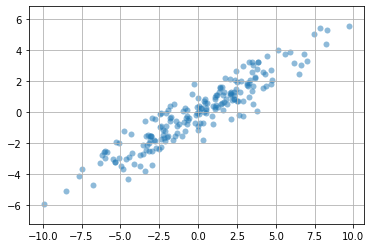
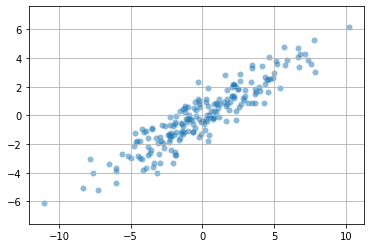
deploy: 676d2d60536966c816368273494c407d6347e09b

diff --git a/searchindex.js b/searchindex.js
@@ -1,1 +1,1 @@
-Search.setIndex({docnames:["index","notebooks/01_linear_systems","notebooks/02_LU_decomposition","notebooks/03_polynomial_interpolation","notebooks/04_spline_interpolation","notebooks/05_finite_difference_method","notebooks/06_least_squares_regression","notebooks/07_pca","notebooks/08_deblurring_images","notebooks/09_computed_tomography","notebooks/10_computing_eigenvalues","notebooks/11_pagerank","notebooks/12_fft","notebooks/13_convolution","notebooks/IntroductionToPythonPart1","notebooks/IntroductionToPythonPart2","notebooks/Untitled"],envversion:{"sphinx.domains.c":2,"sphinx.domains.changeset":1,"sphinx.domains.citation":1,"sphinx.domains.cpp":3,"sphinx.domains.index":1,"sphinx.domains.javascript":2,"sphinx.domains.math":2,"sphinx.domains.python":2,"sphinx.domains.rst":2,"sphinx.domains.std":1,"sphinx.ext.intersphinx":1,sphinx:56},filenames:["index.md","notebooks/01_linear_systems.ipynb","notebooks/02_LU_decomposition.ipynb","notebooks/03_polynomial_interpolation.ipynb","notebooks/04_spline_interpolation.ipynb","notebooks/05_finite_difference_method.ipynb","notebooks/06_least_squares_regression.ipynb","notebooks/07_pca.ipynb","notebooks/08_deblurring_images.ipynb","notebooks/09_computed_tomography.ipynb","notebooks/10_computing_eigenvalues.ipynb","notebooks/11_pagerank.ipynb","notebooks/12_fft.ipynb","notebooks/13_convolution.ipynb","notebooks/IntroductionToPythonPart1.ipynb","notebooks/IntroductionToPythonPart2.ipynb","notebooks/Untitled.ipynb"],objects:{},objnames:{},objtypes:{},terms:{"00000000e":10,"005":[3,4],"01100398":11,"011004149747898956":11,"01820101288462227":11,"01820106":11,"01845697":6,"01856531":11,"0185654143170336":11,"01964212":11,"019642336867707968":11,"021460824700357012":11,"02146109":11,"02473401":11,"02473449475187664":11,"03172254":11,"03172324068371808":11,"03390933449658806":11,"03390935":11,"034842719597060645":11,"03484272":11,"0375":11,"037500000000000006":11,"03812487596135639":11,"0381253":11,"04268155":6,"04545124581214953":11,"04545158":11,"04629856":11,"04629857137044171":11,"04964199":11,"049642137978157676":11,"05699421":11,"05699487639823209":11,"06334349":11,"06334418862061811":11,"07106781e":10,"08949645356198964":11,"08949685":11,"09112605":11,"09112633980008658":11,"09174360136103106":11,"09174401":11,"09223897889625098":11,"09223954":11,"100":[3,5,10,11,12],"1000":6,"1056":7,"10mm":[1,2,5],"1100":12,"115575244":3,"11764706e":10,"120":9,"12145520219282296":11,"12145625":11,"13793103e":10,"14213562e":10,"150":10,"1525":15,"16666667":1,"1797":7,"180":15,"1a19a4a092db":14,"200":[3,4,7,8,9],"220446049250313e":1,"23313981e":10,"239":14,"240":14,"241":14,"242":14,"243":14,"24650102e":10,"24712881730381647":11,"24720132":11,"24782":8,"256":8,"2q_k":5,"2x_1":14,"32083333":11,"3236":15,"331042560716":8,"33333333":[1,2,11],"33333333e":10,"36886114e":10,"382":10,"38617379e":10,"39797215e":10,"3x_2":14,"40000000e":10,"41176471e":10,"41379310e":10,"41421356":10,"41421356e":10,"432x288":8,"43829925e":10,"44100":12,"45293347e":10,"4625":11,"46809736":11,"46824236539236713":11,"49999998":10,"4x_3":14,"500":[6,12],"50000002":10,"50388956":7,"52409613e":10,"530258040767446":4,"553164":6,"5x_2":14,"6289977":3,"66666667":[1,10],"6724":9,"68965517":10,"70710675":10,"70710678":10,"70710681":10,"72413793":10,"72964551":6,"750":12,"76358907e":10,"77302319e":10,"7762752":9,"78476209":6,"78720":9,"7x_3":14,"809":15,"8284271247461903":14,"8328804":6,"86376809":7,"88235294e":10,"8875":11,"8x_3":14,"90926744e":10,"95494473":6,"98183652853226":10,"98235564194533":10,"9840":9,"9f18eecd8a15":14,"default":12,"final":15,"function":[1,2,4,6,7,8,10,11,14],"import":[1,2,3,4,5,6,7,8,9,10,11,12,14,15],"new":14,"return":[2,14,15],"true":[2,3,4,5,7,11,12],"try":[3,14],And:[9,15],Axes:8,But:[3,14],For:[5,14,15],That:[2,3,7,14],The:[0,1,2,3,4,5,6,7,9,10,14,15],Then:10,There:[6,7,14,15],These:9,Use:[6,8],With:2,a_0:10,a_2:5,a_c:8,a_k:[5,9,10],a_k_plu:9,a_n:5,a_r:8,about:[1,14,15],abov:15,abs:[10,12],absolut:[2,10],ac_k_plu:8,access:0,account:0,accur:14,actual:[9,14],acut:15,added:[0,4],addit:[0,14],adjac:11,adjacency_matrix:11,after:9,again:[6,14],algebra:[1,15],algorithm:[7,10],align:[2,3],all:[0,4,10,14],almost:6,alpha:[5,6,7,11],alreadi:14,also:10,alwai:2,amp:1,analys:14,angl:[7,9,12],ani:2,anoth:14,answer:14,append:3,approx:5,approxim:[1,5,10,14],ar_k_plu:8,arang:[8,12],arbitrari:6,around:[3,14],arrai:[1,2,3,4,5,6,7,10,11,14],assign:0,assum:0,astyp:8,attent:15,aug:14,averag:7,avoid:[8,9],axi:[5,7,11],b_1:5,b_2:5,b_e:9,b_k:5,b_n:5,base:6,basi:7,bc_type:4,becaus:3,been:7,befor:[0,6],begin:[1,2,3,5,6,14,15],belong:14,best:[6,14],beta:5,binari:[7,8],bit:15,block:[8,10],bmatrix:[1,2,3,5,6,14,15],boldsymbol:[1,3],bone:9,bore:14,both:8,boundari:5,browser:[0,12],bug:14,build:6,c_0:[3,6],c_1:[3,5,6],c_1t:6,c_1t_1:3,c_1t_2:3,c_1t_d:3,c_1x:6,c_2:[3,5,6],c_2t:6,c_2x:6,c_d:[3,6],c_dt:6,c_k:[3,5],calcul:[6,14,15],call:[2,3,6,14,15],can:[0,6,9,10,15],canva:0,capabl:14,captur:7,cccccccc:[1,2],cd_d:6,cdot:[1,2,3,5,6],cell:15,chang:[3,4],check:[0,2,8],choic:6,choleski:2,choos:[5,10],circuilt:1,clear:14,click:0,clim:7,cmap:[2,7,8,9,11],coefficeint:6,coeffici:[3,4,6],col:[14,15],col_del:14,col_insert:14,collect:9,colorbar:[2,7,8],column:[2,6,7,8,14,15],column_stack:[6,7],columnspac:14,combin:8,come:14,command:14,common:[6,14],compar:[2,4,5,9,10,11,15],comput:[0,1,2,4,6,7,8,14,15],comut:2,concaten:5,cond:[3,4,8],condit:[3,5,8],confus:15,consid:[3,4,5],consist:1,constant:1,construct:[4,6],contain:9,continu:4,converg:10,copi:12,correct:[6,14],correspond:[3,9,10],cos:[5,7,12],cours:[0,14],creat:[1,3,8,11,15],cs1:4,cs2:4,cs3:4,csc:9,csc_matrix:9,cube:15,cubic:3,cubicsplin:4,current:1,cwl:0,data:[3,4,8,9,15],dataset:9,dc_k_plu:8,ddot:[1,2,3,5],decomposit:[7,10],decreas:8,defin:[4,5,10,14],definit:[2,11],degre:[3,6],demonstr:6,denot:5,deploi:0,det:14,detail:0,dft:12,diag:[1,2,5,8,9,14],diagon:[8,10],did:14,differ:[6,9,15],differenti:5,digraph:11,dimens:15,dimension:15,direct:[8,11],discret:5,discuss:15,displai:12,displaystyl:14,distribut:6,document:2,doe:[12,14],domain:5,domin:10,don:14,done:0,dot:[1,3,4,6,7],down:14,dr_k_plu:8,draw:11,due:[1,14],each:[3,4,5,7,9,10],econom:6,edg:11,effici:7,eig:10,eigenvector:10,eignvalu:10,element:12,elementwis:15,elimin:2,ell_:2,end:[1,2,3,5,6,14,15],enough:14,entri:[2,15],epsilon:6,equal:[2,3,7],equat:[3,5,14,15],error:[1,6,9,14],eval:10,evec:10,even:15,everi:7,exact:[1,5],exactli:6,exampl:[9,14,15],exercis:14,exist:3,express:6,eye:[1,2,14,15],f1931db3b9ae:14,factor:6,fals:[2,7],familiar:0,figsiz:[3,7,9,12],figur:[3,7,8,9,12],file:[0,9],find:[2,8,11,14,15],finnish:9,fip:9,first:[0,2,6,7,14],flatten:7,float64:8,follow:[0,9,14],form:[2,5,6,14],format:10,formula:5,found:0,frac:[5,7,10],from:[3,4,6,7,8,9,12,15],gaussian:[2,7],gave:14,gener:[5,6,14],get:[14,15],get_cmap:7,give:[3,14],given:[3,4],glimp:14,goal:6,good:10,googl:11,google_matrix:11,grai:8,grid:[3,4,5,7,12],hand:2,handwritten:7,happen:3,has:[2,6,7,10,14,15],hat:[1,9],have:[0,6,9,10,14,15],help:[14,15],here:14,home:14,horizont:8,how:[8,14,15],howev:[7,9,14,15],hspace:[1,2,5],hstack:8,hub:0,huge:9,i_1:1,i_n:1,idea:6,ident:15,ifft:12,imag:7,implement:[7,10],imread:8,imshow:[2,7,8,9],includ:7,increas:[3,10],inde:10,index:[1,9],indic:14,inform:[0,7],infti:10,input:14,insert:14,instal:0,instructor:0,interest:15,internet:14,interpol:7,interst:14,interv:6,introduc:[3,5],introduct:[0,14],inv:14,invers:[9,14],invert:[9,10],ipython:[12,14],irrat:14,iter:11,its:15,jet:7,jpg:8,jupyt:0,just:6,keep:15,kitten:8,know:[3,10,14],knowledg:0,l_1:2,l_2:2,lambda:10,lambda_1:10,lambda_n:10,languag:14,larg:[3,9],largest:9,last:15,later:14,learn:[1,7,14],least:6,lectur:14,left:[1,2,5,6,8,14],len:3,length:[7,15],leq:2,less:2,let:[2,3,4,5,6,7,8,9,10,14,15],lib:14,librari:[14,15],linalg:[2,3,4,5,6,7,8,9,10,11,12,15],line:6,linear:[4,5,15],linearli:8,linewidth:6,link:0,linspac:[3,4,5,6],list:15,llet:5,load_digit:7,loadmat:[8,9],locat:7,look:[6,9],loop:1,lot:14,lower:2,lu_factor:10,lu_solv:10,machin:[7,14],magnitud:12,mai:15,mainli:14,make:14,mani:14,markers:[3,4],mat:9,mathbb:7,mathbf:[2,5,6,7,9,10],mathemat:[0,1],matlab:15,matplotlib:[1,2,3,4,5,6,7,8,9,10,11,12,14],matric:[6,9,14,15],matrix:[1,2,3,4,6,7,8,10,11,14],matrix_pow:15,max:10,mean:[6,7,10],memori:9,method:[6,10,11,15],minim:6,mode:6,model:1,modul:14,modulenotfounderror:14,more:14,most:[6,7,14],mpow:15,multipl:[8,10,14],multiplc:15,must:[14,15],n_link:11,n_page:11,nak:10,name:14,nameerror:14,nbyte:9,ndarrai:[1,9],ndim:15,need:[0,8,9,14,15],networkx:11,next:14,nice:3,niter:10,nmax:3,node_color:11,nois:[3,4,6,9],none:5,norm:[1,10],normal:[7,10],normliz:7,notat:[5,6],note:[0,11,14],notebook:[0,13],notic:15,now:[2,4,6,10,14,15],nullspac:14,number:[3,6,8,10,14,15],numer:[14,15],numpi:[1,2,3,4,5,6,7,8,9,10,11,12,14],nxk:10,object:15,off:14,onc:0,one:[14,15],ones:[1,2,5,6,8,11,14],onto:7,oper:14,order:[5,9,14],ordinari:5,origin:7,orthogon:7,orthonorm:7,other:[10,14],our:[1,4,11,14,15],out:14,output:15,p_1:[4,5],p_2:4,p_k:[4,5],p_n:[4,5],packag:[1,7,14],page:0,parabola:3,parallel:1,part:0,partial:2,particular:9,paus:10,pca:7,perform:[0,11,15],permut:2,phantom:2,phase:12,phi:12,piecewis:4,pivot:[2,14],pixel:7,plai:14,pleas:0,plot:[1,2,3,4,5,6,7],plt:[1,2,3,4,5,6,7,8,9,10,11,12],plu:2,point:[3,4,6,7],polyniomi:3,polynomi:4,pos:[11,14],posit:[1,2],post:0,power:11,precis:14,prepar:9,present:14,pretti:10,print:[1,2,3,6,10,15],prior:0,problem:[9,14,15],produc:10,program:14,proj:9,project:7,provid:9,pseudoinvers:[8,9],pyplot:[1,2,3,4,5,6,7,8,9,10,11,12],python3:14,python:[7,14,15],q_1:6,q_1r_1:6,q_k:10,qtc:8,qtr:8,quad:14,quantifi:6,question:14,quick:15,quiver:7,quotient:10,r_1:[5,6],r_2:5,r_k:[5,10],r_n:5,rai:9,rais:14,rand:6,randint:[4,9,11],randn:[3,4,6,7,8,10],random:[3,4,6,7,8,9,12],rang:[3,7,9,10,11],rank:9,rate:12,rayleigh:10,rcparam:12,real:[10,12],rearrang:5,recal:15,recent:[0,14],record:8,repeat:[5,10],repres:[1,6,8,9],requir:[0,15],reshap:[4,7,9,15],residu:1,result:[2,4,6,7,9,10,15],retriev:6,review:15,right:[0,1,2,5,6,7,8,14],rocket:0,round:1,row:[2,6,7,8,9,14,15],row_insert:14,rrcrr:5,rref:14,rrr:2,said:14,same:[6,8,10,14,15],sampl:[6,9],save:9,saw:15,scalar:14,scale:7,scale_unit:7,scatter:[6,7],scipi:[2,3,4,5,6,7,8,9,10,11,12,14,15],second:5,see:[6,10,14,15],seek:7,seen:14,select:[7,15],self:14,sensit:[3,4],set:[6,12],set_cmap:8,shape:[6,7,8,9,14,15],shapeerror:14,show:[1,2,3,4,5,6,7,8,9,12,14],side:0,sigma:7,sign:0,similar:10,sin:[3,4,7],sinc:[10,14],singular:[7,9],site:14,size:[1,3,4,5,8,10,12,14,15],sklearn:7,sla:9,sleep:10,slice:15,small:[3,4,14],smallest:10,smooth:4,societi:9,softwar:0,solut:[1,2,3,5,6,14],solv:[2,3,4,5,6,8,9,14,15],solve_triangular:2,some:[1,3,6,8,14,15],space:3,spars:9,specifi:14,spring_layout:11,spy:9,sqrt:[10,14],squar:[1,6,8,9],sse:6,standard:6,start:[3,10],stem:12,step:10,still:0,stochast:11,student:0,subinterv:4,subpackag:15,subplot:[9,12],substitut:5,substract:14,subtract:7,sum:[3,6,11,12],sum_:7,sum_i:6,support:12,suppos:[6,10],svd:7,sym:14,symbol:[14,15],symmetr:[2,10,15],sympi:15,system:[2,3,4,5,6,14,15],syzygi:0,szgygi:0,t_0:[3,4,5,6],t_1:[3,6],t_2:3,t_d:3,t_f:5,t_i:6,t_k:[3,4,5],t_n:[3,4,6],tab:0,take:[0,14,15],talk:15,target:7,tell:14,term:0,than:2,thei:[10,15],them:14,therefor:[2,8,10],theta:7,thi:[0,2,3,6,10,14,15],thin:6,think:15,though:15,through:9,throughout:0,tick:7,tild:10,time:[6,7,8,10,15],titl:[3,12],toarrai:11,todai:15,tomograph:9,total:15,traceback:14,track:15,transpos:[11,14,15],triangular:[2,6,10],tupl:[14,15],tutori:14,two:[0,6,7,15],type:[1,9,15],ubc:0,uniqu:[3,6],unit:2,unknown:3,updat:0,upload:0,upper:[0,2,6,10],use:[0,4,6,7,9,15],use_line_collect:12,used:[0,11],useful:15,using:[0,1,2,3,6,8,15],usr:14,usual:10,valu:[2,3,4,7,8,9,10,14,15],vander:3,vandermond:[3,6],variabl:15,varianc:7,vdot:[1,2,3,5,6],vector:[6,7,9,10,11,15],veri:3,verifi:[2,4,15],vert:6,vertic:[8,11],visual:9,wai:[6,14],walnut:9,want:[4,6,14,15],weight:7,what:[3,6,14],when:[3,15],where:[1,2,5,6,8,9,14,15],which:[0,3,6,7,10,14,15],why:14,winter:[2,11],with_label:11,without:[0,2,10],work:[6,14],write:14,wrong:14,x2d:7,x_1:14,x_filter:12,xlabel:[1,3],y_0:[3,4,6],y_1:[3,5,6],y_2:[3,5],y_angl:12,y_d:3,y_filter:12,y_i:6,y_k:[3,4,5],y_n:[4,5,6],yes:14,yield:[3,5],yike:3,ylabel:1,you:[0,14,15],your:[0,12,14],yourself:[0,14],zero:[5,8,11,14]},titles:["MATH 307 Applied Linear Algebra","Linear Systems of Equations","LU Decomposition","Polynomial Interpolation","Natural Cubic Spline Interpolation","Finite Difference Method","Fitting Models to Data","Principal Component Analysis","Deblurring Images","Computed Tomography","Computing Eigenvalues","PageRank","Discrete Fourier Transform","Test page","MATH 307   Applications of Linear Algebra","Part 2: NumPy","&lt;no title&gt;"],titleterms:{"307":[0,14],"function":15,"true":9,algebra:[0,14],alwai:14,analysi:7,appli:0,applic:14,arithmet:15,arrai:15,attribut:15,audio:12,blur:8,can:14,compon:7,comput:[9,10,12],cubic:4,data:[6,7],dataset:7,deblur:8,decomposit:[2,6],differ:5,digit:7,discret:12,eigenvalu:10,equat:[1,6],exampl:[1,2,3,4,5,6,11,12],exercis:15,fake:[6,7],fft:12,filter:12,finit:5,fit:6,fourier:12,from:14,graph:11,homework:14,imag:8,interpol:[3,4],invers:10,invert:8,iter:10,last:14,linalg:1,linear:[0,1,6,14],math:[0,14],mathbf:1,matric:[8,10],matrix:[9,15],measur:9,method:5,model:6,multipl:15,natur:4,network:1,nois:8,noisi:6,normal:6,numpi:15,oper:15,page:13,pagerank:11,part:[14,15],plai:12,polynomi:[3,6],power:[10,15],princip:7,project:9,python:0,quadrat:6,random:[10,11],regress:6,resistor:1,scipi:1,signal:12,sinogram:9,sinusoid:12,small:11,solut:9,solv:1,spline:4,svd:[8,9],sympi:14,system:1,test:13,time:14,toeplitz:8,tomographi:9,trace:15,tranpos:15,transform:12,truncat:[8,9],use:14}})
+Search.setIndex({docnames:["index","notebooks/01_linear_systems","notebooks/02_LU_decomposition","notebooks/03_polynomial_interpolation","notebooks/04_spline_interpolation","notebooks/05_finite_difference_method","notebooks/06_least_squares_regression","notebooks/07_pca","notebooks/08_deblurring_images","notebooks/09_computed_tomography","notebooks/10_computing_eigenvalues","notebooks/11_pagerank","notebooks/12_fft","notebooks/13_convolution","notebooks/IntroductionToPythonPart1","notebooks/IntroductionToPythonPart2","notebooks/Untitled"],envversion:{"sphinx.domains.c":2,"sphinx.domains.changeset":1,"sphinx.domains.citation":1,"sphinx.domains.cpp":3,"sphinx.domains.index":1,"sphinx.domains.javascript":2,"sphinx.domains.math":2,"sphinx.domains.python":2,"sphinx.domains.rst":2,"sphinx.domains.std":1,"sphinx.ext.intersphinx":1,sphinx:56},filenames:["index.md","notebooks/01_linear_systems.ipynb","notebooks/02_LU_decomposition.ipynb","notebooks/03_polynomial_interpolation.ipynb","notebooks/04_spline_interpolation.ipynb","notebooks/05_finite_difference_method.ipynb","notebooks/06_least_squares_regression.ipynb","notebooks/07_pca.ipynb","notebooks/08_deblurring_images.ipynb","notebooks/09_computed_tomography.ipynb","notebooks/10_computing_eigenvalues.ipynb","notebooks/11_pagerank.ipynb","notebooks/12_fft.ipynb","notebooks/13_convolution.ipynb","notebooks/IntroductionToPythonPart1.ipynb","notebooks/IntroductionToPythonPart2.ipynb","notebooks/Untitled.ipynb"],objects:{},objnames:{},objtypes:{},terms:{"00000000e":10,"005":[3,4],"022346452791530573":11,"02980022505868524":11,"03184323936986462":11,"03216193789152724":11,"03641537874911206":11,"03668906795333719":11,"0375":11,"037500000000000006":11,"041335697532638285":11,"04209614814361496":11,"04468643946576281":11,"04551971671116927":11,"04979194962025059":11,"05018993606203244":11,"05580037558160046":11,"058507578601336714":11,"058518166945132025":11,"060710321095266404":11,"06212652415732702":11,"06666597":6,"06946614217699817":11,"07106781e":10,"0760624749594696":11,"09385089":6,"09593222713334443":11,"100":[3,5,10,11,12],"1000":6,"1056":7,"10mm":[1,2,5],"1100":12,"115575244":3,"11764706e":10,"120":9,"13793103e":10,"14213562e":10,"150":10,"1525":15,"16666667":1,"1797":7,"180":15,"1a19a4a092db":14,"200":[3,4,7,8,9],"220446049250313e":1,"23313981e":10,"239":14,"240":14,"241":14,"242":14,"243":14,"24650102e":10,"24712881730381647":11,"24720132":11,"24782":8,"256":8,"2q_k":5,"2x_1":14,"32083333":11,"3236":15,"331042560716":8,"33333333":[1,2,11],"33333333e":10,"36886114e":10,"38617379e":10,"387":10,"39797215e":10,"3x_2":14,"40000000e":10,"41176471e":10,"41379310e":10,"41421356":10,"41421356e":10,"432x288":8,"43829925e":10,"44100":12,"45293347e":10,"4625":11,"46415307":6,"46809736":11,"46824236539236713":11,"49999998":10,"4x_3":14,"500":[6,12],"50000002":10,"51389521645785":10,"51519229":7,"51540358502723":10,"52409613e":10,"530258040767446":4,"5x_2":14,"6289977":3,"66666667":[1,10],"6724":9,"68965517":10,"70710675":10,"70710678":10,"70710681":10,"72413793":10,"750":12,"76358907e":10,"77302319e":10,"77513142":6,"7762752":9,"78720":9,"7x_3":14,"809":15,"8284271247461903":14,"85707462":7,"88235294e":10,"8875":11,"8x_3":14,"90926744e":10,"96442161":6,"9840":9,"98682125":6,"99163281":6,"9f18eecd8a15":14,"default":12,"final":15,"function":[1,2,4,6,7,8,10,11,14],"import":[1,2,3,4,5,6,7,8,9,10,11,12,14,15],"new":14,"return":[2,11,14,15],"true":[2,3,4,5,7,11,12],"try":[3,14],And:[9,15],Axes:8,But:[3,14],For:[5,14,15],That:[2,3,7,14],The:[0,1,2,3,4,5,6,7,9,10,14,15],Then:10,There:[6,7,14,15],These:9,Use:[6,8],With:2,_asarrai:11,a_0:10,a_2:5,a_c:8,a_k:[5,9,10],a_k_plu:9,a_n:5,a_r:8,about:[1,14,15],abov:15,abs:[10,12],absolut:[2,10],ac_k_plu:8,access:0,account:0,accur:14,actual:[9,14],acut:15,added:[0,4],addit:[0,14],adjac:11,adjacency_matrix:11,after:9,again:[6,14],algebra:[1,15],algorithm:[7,10],align:[2,3],all:[0,4,10,14],almost:6,alpha:[5,6,7,11],alreadi:14,also:10,alwai:2,amp:1,analys:14,angl:[7,9,12],ani:2,anoth:14,answer:14,append:3,approx:5,approxim:[1,5,10,14],ar_k_plu:8,arang:[8,12],arbitrari:6,around:[3,14],arrai:[1,2,3,4,5,6,7,10,11,14],assign:0,assum:0,astyp:8,attent:15,aug:14,averag:7,avoid:[8,9],axi:[5,7,11],b_1:5,b_2:5,b_e:9,b_k:5,b_n:5,base:6,basi:7,bc_type:4,becaus:3,been:7,befor:[0,6],begin:[1,2,3,5,6,14,15],belong:14,best:[6,14],beta:5,binari:[7,8],bit:15,block:[8,10],bmatrix:[1,2,3,5,6,14,15],boldsymbol:[1,3],bone:9,bore:14,both:8,boundari:5,browser:[0,12],bug:14,build:6,c_0:[3,6],c_1:[3,5,6],c_1t:6,c_1t_1:3,c_1t_2:3,c_1t_d:3,c_1x:6,c_2:[3,5,6],c_2t:6,c_2x:6,c_d:[3,6],c_dt:6,c_k:[3,5],calcul:[6,14,15],call:[2,3,6,14,15],can:[0,6,9,10,15],canva:0,capabl:14,captur:7,cccccccc:[1,2],cd_d:6,cdot:[1,2,3,5,6],cell:15,chang:[3,4],check:[0,2,8],choic:6,choleski:2,choos:[5,10],circuilt:1,clear:14,click:0,clim:7,cmap:[2,7,8,9,11],coefficeint:6,coeffici:[3,4,6],col:[14,15],col_del:14,col_insert:14,collect:9,colorbar:[2,7,8],column:[2,6,7,8,14,15],column_stack:[6,7],columnspac:14,combin:8,come:14,command:14,common:[6,14],compar:[2,4,5,9,10,11,15],comput:[0,1,2,4,6,7,8,14,15],comut:2,concaten:5,cond:[3,4,8],condit:[3,5,8],confus:15,consid:[3,4,5],consist:1,constant:1,construct:[4,6],contain:9,continu:4,converg:10,convert:11,copi:[11,12],core:11,correct:[6,14],correspond:[3,9,10],cos:[5,7,12],cours:[0,14],creat:[1,3,8,11,15],cs1:4,cs2:4,cs3:4,csc:9,csc_matrix:9,cube:15,cubic:3,cubicsplin:4,current:1,cwl:0,data:[3,4,8,9,15],dataset:9,dc_k_plu:8,ddot:[1,2,3,5],decomposit:[7,10],decreas:8,defin:[4,5,10,14],definit:[2,11],degre:[3,6],demonstr:6,denot:5,deploi:0,det:14,detail:0,dft:12,diag:[1,2,5,8,9,14],diagon:[8,10],did:14,differ:[6,9,15],differenti:5,digraph:11,dimens:15,dimension:15,direct:[8,11],discret:5,discuss:15,displai:12,displaystyl:14,distribut:6,document:2,doe:[12,14],domain:5,domin:10,don:14,done:0,dot:[1,3,4,6,7],down:14,dr_k_plu:8,draw:11,dtype:11,due:[1,14],each:[3,4,5,7,9,10],econom:6,edg:11,effici:7,eig:10,eigenvector:10,eignvalu:10,element:[11,12],elementwis:15,elimin:2,ell_:2,encount:11,end:[1,2,3,5,6,14,15],enough:14,entri:[2,15],epsilon:6,equal:[2,3,7],equat:[3,5,14,15],error:[1,6,9,14],eval:10,evec:10,even:15,everi:7,exact:[1,5],exactli:6,exampl:[9,14,15],exercis:14,exist:3,express:6,eye:[1,2,14,15],f1931db3b9ae:14,factor:6,fals:[2,7,11],familiar:0,figsiz:[3,7,9,12],figur:[3,7,8,9,12],file:[0,9],find:[2,8,11,14,15],finnish:9,fip:9,first:[0,2,6,7,14],flatten:7,float64:8,follow:[0,9,14],form:[2,5,6,14],format:10,formula:5,found:0,frac:[5,7,10],from:[3,4,6,7,8,9,12,15],gaussian:[2,7],gave:14,gener:[5,6,14],get:[14,15],get_cmap:7,give:[3,14],given:[3,4],glimp:14,goal:6,good:10,googl:11,google_matrix:11,grai:8,grid:[3,4,5,7,12],hand:2,handwritten:7,happen:3,has:[2,6,7,10,14,15],hat:[1,9],have:[0,6,9,10,14,15],help:[14,15],here:14,home:14,horizont:8,hostedtoolcach:11,how:[8,14,15],howev:[7,9,14,15],hspace:[1,2,5],hstack:8,hub:0,huge:9,i_1:1,i_n:1,idea:6,ident:15,ifft:12,imag:7,implement:[7,10],imread:8,imshow:[2,7,8,9],includ:7,increas:[3,10],inde:10,index:[1,9],indic:14,inform:[0,7],infti:10,input:14,insert:14,instal:0,instructor:0,interest:15,internet:14,interpol:7,interst:14,interv:6,introduc:[3,5],introduct:0,inv:14,invalid:11,invers:[9,14],invert:[9,10],ipykernel_launch:11,ipython:[12,14],irrat:14,iter:11,its:15,jet:7,jpg:8,jupyt:0,just:6,keep:15,kitten:8,know:[3,10,14],knowledg:0,l_1:2,l_2:2,lambda:10,lambda_1:10,lambda_n:10,languag:14,larg:[3,9],largest:9,last:15,later:14,learn:[1,7,14],least:6,lectur:14,left:[1,2,5,6,8,14],len:3,length:[7,15],leq:2,less:2,let:[2,3,4,5,6,7,8,9,10,14,15],lib:[11,14],librari:[14,15],linalg:[2,3,4,5,6,7,8,9,10,11,12,15],line:6,linear:[4,5,14,15],linearli:8,linewidth:6,link:0,linspac:[3,4,5,6],list:15,llet:5,load_digit:7,loadmat:[8,9],locat:7,look:[6,9],loop:1,lot:14,lower:2,lu_factor:10,lu_solv:10,machin:[7,14],magnitud:12,mai:15,mainli:14,make:14,mani:14,markers:[3,4],mask:11,mat:9,math:14,mathbb:7,mathbf:[2,5,6,7,9,10],mathemat:[0,1],matlab:15,matplotlib:[1,2,3,4,5,6,7,8,9,10,11,12,14],matric:[6,9,14,15],matrix:[1,2,3,4,6,7,8,10,11,14],matrix_pow:15,max:10,mean:[6,7,10],memori:9,method:[6,10,11,15],minim:6,mode:6,model:1,modul:14,modulenotfounderror:14,more:14,most:[6,7,14],mpow:15,multipl:[8,10,14],multiplc:15,must:[14,15],n_link:11,n_page:11,nak:10,name:14,nameerror:14,nan:11,nbyte:9,ndarrai:[1,9],ndim:15,need:[0,8,9,14,15],networkx:11,next:14,nice:3,niter:10,nmax:3,node_color:11,nois:[3,4,6,9],none:5,norm:[1,10],normal:[7,10],normliz:7,notat:[5,6],note:[0,11,14],notebook:[0,13],notic:15,now:[2,4,6,10,14,15],nullspac:14,number:[3,6,8,10,14,15],numer:[14,15],numpi:[1,2,3,4,5,6,7,8,9,10,11,12,14],nxk:10,object:15,off:14,onc:0,one:[14,15],ones:[1,2,5,6,8,11,14],onto:7,oper:14,opt:11,order:[5,9,11,14],ordinari:5,origin:7,orthogon:7,orthonorm:7,other:[10,14],our:[1,4,11,14,15],out:14,output:15,p_1:[4,5],p_2:4,p_k:[4,5],p_n:[4,5],packag:[1,7,11,14],page:0,parabola:3,parallel:1,part:0,partial:2,particular:9,paus:10,pca:7,perform:[0,11,15],permut:2,phantom:2,phase:12,phi:12,piecewis:4,pivot:[2,14],pixel:7,plai:14,pleas:0,plot:[1,2,3,4,5,6,7],plt:[1,2,3,4,5,6,7,8,9,10,11,12],plu:2,point:[3,4,6,7],polyniomi:3,polynomi:4,pos:[11,14],posit:[1,2],post:0,power:11,precis:14,prepar:9,present:14,pretti:10,print:[1,2,3,6,10,15],prior:0,problem:[9,14,15],produc:10,program:14,proj:9,project:7,provid:9,pseudoinvers:[8,9],pyplot:[1,2,3,4,5,6,7,8,9,10,11,12],python3:[11,14],python:[7,11,15],q_1:6,q_1r_1:6,q_k:10,qtc:8,qtr:8,quad:14,quantifi:6,question:14,quick:15,quiver:7,quotient:10,r_1:[5,6],r_2:5,r_k:[5,10],r_n:5,rai:9,rais:14,rand:6,randint:[4,9,11],randn:[3,4,6,7,8,10],random:[3,4,6,7,8,9,12],rang:[3,7,9,10,11],rank:9,rate:12,rayleigh:10,rcparam:12,real:[10,12],rearrang:5,recal:15,recent:[0,14],record:8,repeat:[5,10],repres:[1,6,8,9],requir:[0,15],reshap:[4,7,9,15],residu:1,result:[2,4,6,7,9,10,15],retriev:6,review:15,right:[0,1,2,5,6,7,8,14],rocket:0,round:1,row:[2,6,7,8,9,14,15],row_insert:14,rrcrr:5,rref:14,rrr:2,runtimewarn:11,said:14,same:[6,8,10,14,15],sampl:[6,9],save:9,saw:15,scalar:14,scale:7,scale_unit:7,scatter:[6,7],scipi:[2,3,4,5,6,7,8,9,10,11,12,14,15],second:5,see:[6,10,14,15],seek:7,seen:14,select:[7,15],self:14,sensit:[3,4],set:[6,12],set_cmap:8,shape:[6,7,8,9,14,15],shapeerror:14,show:[1,2,3,4,5,6,7,8,9,12,14],side:0,sigma:7,sign:0,similar:10,sin:[3,4,7],sinc:[10,14],singular:[7,9],site:[11,14],size:[1,3,4,5,8,10,12,14,15],sklearn:7,sla:9,sleep:10,slice:15,small:[3,4,14],smallest:10,smooth:4,societi:9,softwar:0,solut:[1,2,3,5,6,14],solv:[2,3,4,5,6,8,9,14,15],solve_triangular:2,some:[1,3,6,8,14,15],space:3,spars:9,specifi:14,spring_layout:11,spy:9,sqrt:[10,14],squar:[1,6,8,9],sse:6,standard:6,start:[3,10],stem:12,step:10,still:0,stochast:11,string:11,student:0,subinterv:4,subpackag:15,subplot:[9,12],substitut:5,substract:14,subtract:7,sum:[3,6,11,12],sum_:7,sum_i:6,support:12,suppos:[6,10],svd:7,sym:14,symbol:[14,15],symmetr:[2,10,15],sympi:15,system:[2,3,4,5,6,14,15],syzygi:0,szgygi:0,t_0:[3,4,5,6],t_1:[3,6],t_2:3,t_d:3,t_f:5,t_i:6,t_k:[3,4,5],t_n:[3,4,6],tab:0,take:[0,14,15],talk:15,target:7,tell:14,term:0,than:2,thei:[10,15],them:14,therefor:[2,8,10],theta:7,thi:[0,2,3,6,10,14,15],thin:6,think:15,though:15,through:9,throughout:0,tick:7,tild:10,time:[6,7,8,10,15],titl:[3,12],toarrai:11,todai:15,tomograph:9,total:15,traceback:14,track:15,transpos:[11,14,15],triangular:[2,6,10],true_divid:11,tupl:[14,15],tutori:14,two:[0,6,7,15],type:[1,9,15],ubc:0,uniqu:[3,6],unit:2,unknown:3,updat:0,upload:0,upper:[0,2,6,10],use:[0,4,6,7,9,15],use_line_collect:12,used:[0,11],useful:15,userwarn:11,using:[0,1,2,3,6,8,15],usr:14,usual:10,valu:[2,3,4,7,8,9,10,11,14,15],vander:3,vandermond:[3,6],variabl:15,varianc:7,vdot:[1,2,3,5,6],vector:[6,7,9,10,11,15],veri:3,verifi:[2,4,15],vert:6,vertic:[8,11],visual:9,wai:[6,14],walnut:9,want:[4,6,14,15],warn:11,weight:7,what:[3,6,14],when:[3,15],where:[1,2,5,6,8,9,14,15],which:[0,3,6,7,10,14,15],why:14,winter:[2,11],with_label:11,without:[0,2,10],work:[6,14],write:14,wrong:14,x2d:7,x64:11,x_1:14,x_filter:12,xlabel:[1,3],y_0:[3,4,6],y_1:[3,5,6],y_2:[3,5],y_angl:12,y_d:3,y_filter:12,y_i:6,y_k:[3,4,5],y_n:[4,5,6],yes:14,yield:[3,5],yike:3,ylabel:1,you:[0,14,15],your:[0,12,14],yourself:[0,14],zero:[5,8,11,14]},titles:["MATH 307 Applied Linear Algebra","Linear Systems of Equations","LU Decomposition","Polynomial Interpolation","Natural Cubic Spline Interpolation","Finite Difference Method","Fitting Models to Data","Principal Component Analysis","Deblurring Images","Computed Tomography","Computing Eigenvalues","PageRank","Discrete Fourier Transform","Test page","Introduction to Python - Part 1","Part 2: NumPy","&lt;no title&gt;"],titleterms:{"307":0,"function":15,"true":9,algebra:0,alwai:14,analysi:7,appli:0,arithmet:15,arrai:15,attribut:15,audio:12,blur:8,can:14,compon:7,comput:[9,10,12],cubic:4,data:[6,7],dataset:7,deblur:8,decomposit:[2,6],differ:5,digit:7,discret:12,eigenvalu:10,equat:[1,6],exampl:[1,2,3,4,5,6,11,12],exercis:15,fake:[6,7],fft:12,filter:12,finit:5,fit:6,fourier:12,from:14,graph:11,homework:14,imag:8,interpol:[3,4],introduct:14,invers:10,invert:8,iter:10,last:14,linalg:1,linear:[0,1,6],math:0,mathbf:1,matric:[8,10],matrix:[9,15],measur:9,method:5,model:6,multipl:15,natur:4,network:1,nois:8,noisi:6,normal:6,numpi:15,oper:15,page:13,pagerank:11,part:[14,15],plai:12,polynomi:[3,6],power:[10,15],princip:7,project:9,python:[0,14],quadrat:6,random:[10,11],regress:6,resistor:1,scipi:1,signal:12,sinogram:9,sinusoid:12,small:11,solut:9,solv:1,spline:4,svd:[8,9],sympi:14,system:1,test:13,time:14,toeplitz:8,tomographi:9,trace:15,tranpos:15,transform:12,truncat:[8,9],use:14}})

diff --git a/notebooks/11_pagerank.html b/notebooks/11_pagerank.html
@@ -93,7 +93,7 @@
 <ul class="nav sidenav_l1">
  <li class="toctree-l1">
   <a class="reference internal" href="IntroductionToPythonPart1.html">
-   MATH 307   Applications of Linear Algebra
+   Introduction to Python - Part 1
   </a>
  </li>
  <li class="toctree-l1">
@@ -504,6 +504,12 @@
 </pre></div>
 </div>
 </div>
+<div class="cell_output docutils container">
+<div class="output stderr highlight-myst-ansi notranslate"><div class="highlight"><pre><span></span>/opt/hostedtoolcache/Python/3.7.9/x64/lib/python3.7/site-packages/ipykernel_launcher.py:2: RuntimeWarning: invalid value encountered in true_divide
+  
+</pre></div>
+</div>
+</div>
 </div>
 <div class="cell docutils container">
 <div class="cell_input docutils container">
@@ -512,7 +518,12 @@
 </div>
 </div>
 <div class="cell_output docutils container">
-<img alt="../_images/11_pagerank_22_0.png" src="../_images/11_pagerank_22_0.png" />
+<div class="output stderr highlight-myst-ansi notranslate"><div class="highlight"><pre><span></span>&lt;string&gt;:6: UserWarning: Warning: converting a masked element to nan.
+/opt/hostedtoolcache/Python/3.7.9/x64/lib/python3.7/site-packages/numpy/core/_asarray.py:83: UserWarning: Warning: converting a masked element to nan.
+  return array(a, dtype, copy=False, order=order)
+</pre></div>
+</div>
+<img alt="../_images/11_pagerank_22_1.png" src="../_images/11_pagerank_22_1.png" />
 </div>
 </div>
 <div class="cell docutils container">
@@ -522,10 +533,8 @@
 </div>
 </div>
 <div class="cell_output docutils container">
-<div class="output text_plain highlight-myst-ansi notranslate"><div class="highlight"><pre><span></span>array([0.09223954, 0.0381253 , 0.08949685, 0.09112605, 0.02473401,
-       0.05699421, 0.01100398, 0.01820106, 0.04545158, 0.03390935,
-       0.03172254, 0.06334349, 0.03484272, 0.12145625, 0.01856531,
-       0.01964212, 0.02146109, 0.09174401, 0.04964199, 0.04629856])
+<div class="output text_plain highlight-myst-ansi notranslate"><div class="highlight"><pre><span></span>array([nan, nan, nan, nan, nan, nan, nan, nan, nan, nan, nan, nan, nan,
+       nan, nan, nan, nan, nan, nan, nan])
 </pre></div>
 </div>
 </div>
@@ -537,26 +546,26 @@
 </div>
 </div>
 <div class="cell_output docutils container">
-<div class="output text_plain highlight-myst-ansi notranslate"><div class="highlight"><pre><span></span>{4: 0.09223897889625098,
- 7: 0.03812487596135639,
- 18: 0.08949645356198964,
- 5: 0.09112633980008658,
- 8: 0.02473449475187664,
- 9: 0.05699487639823209,
- 3: 0.011004149747898956,
- 19: 0.01820101288462227,
- 10: 0.04545124581214953,
- 17: 0.03390933449658806,
- 16: 0.03172324068371808,
- 0: 0.06334418862061811,
- 13: 0.034842719597060645,
- 14: 0.12145520219282296,
- 12: 0.0185654143170336,
- 2: 0.019642336867707968,
- 15: 0.021460824700357012,
- 11: 0.09174360136103106,
- 6: 0.049642137978157676,
- 1: 0.04629857137044171}
+<div class="output text_plain highlight-myst-ansi notranslate"><div class="highlight"><pre><span></span>{5: 0.022346452791530573,
+ 0: 0.05580037558160046,
+ 18: 0.04551971671116927,
+ 2: 0.058518166945132025,
+ 6: 0.058507578601336714,
+ 8: 0.03216193789152724,
+ 11: 0.04209614814361496,
+ 7: 0.0760624749594696,
+ 14: 0.05018993606203244,
+ 10: 0.03184323936986462,
+ 4: 0.04468643946576281,
+ 13: 0.06946614217699817,
+ 1: 0.03641537874911206,
+ 9: 0.06212652415732702,
+ 12: 0.03668906795333719,
+ 17: 0.02980022505868524,
+ 19: 0.041335697532638285,
+ 3: 0.060710321095266404,
+ 15: 0.09593222713334443,
+ 16: 0.04979194962025059}
 </pre></div>
 </div>
 </div>

diff --git a/notebooks/IntroductionToPythonPart1.html b/notebooks/IntroductionToPythonPart1.html
@@ -5,7 +5,7 @@
   <head>
     <meta charset="utf-8" />
     <meta name="viewport" content="width=device-width, initial-scale=1.0" />
-    <title>MATH 307 Applications of Linear Algebra &#8212; Applied Linear Algebra</title>
+    <title>Introduction to Python - Part 1 &#8212; Applied Linear Algebra</title>
     
   <link rel="stylesheet" href="../_static/css/index.73d71520a4ca3b99cfee5594769eaaae.css">
 
@@ -93,7 +93,7 @@
 <ul class="current nav sidenav_l1">
  <li class="toctree-l1 current active">
   <a class="current reference internal" href="#">
-   MATH 307   Applications of Linear Algebra
+   Introduction to Python - Part 1
   </a>
  </li>
  <li class="toctree-l1">
@@ -326,8 +326,8 @@
         
               <div>
                 
-  <div class="section" id="math-307-applications-of-linear-algebra">
-<h1>MATH 307   Applications of Linear Algebra<a class="headerlink" href="#math-307-applications-of-linear-algebra" title="Permalink to this headline">¶</a></h1>
+  <div class="section" id="introduction-to-python-part-1">
+<h1>Introduction to Python - Part 1<a class="headerlink" href="#introduction-to-python-part-1" title="Permalink to this headline">¶</a></h1>
 <p>In this course we will use Python to solve and analyse linear equation with the help of a computer.
 This small <em>Introduction</em> will show you how you can use Python on your computer and give you a first glimps of what it is capable off. There are many Python tutorials in the internet and the best way to learn a (new) programming <em>language</em> is to get out there and play around with it.</p>
 <p>We will mainly use the Python libraries NumPy, Matplotlib, SciPy and SymPy. In order to use them we need to import them</p>

diff --git a/notebooks/IntroductionToPythonPart2.html b/notebooks/IntroductionToPythonPart2.html
@@ -57,7 +57,7 @@
     <link rel="index" title="Index" href="../genindex.html" />
     <link rel="search" title="Search" href="../search.html" />
     <link rel="next" title="Linear Systems of Equations" href="01_linear_systems.html" />
-    <link rel="prev" title="MATH 307 Applications of Linear Algebra" href="IntroductionToPythonPart1.html" />
+    <link rel="prev" title="Introduction to Python - Part 1" href="IntroductionToPythonPart1.html" />
 
     <meta name="viewport" content="width=device-width, initial-scale=1" />
     <meta name="docsearch:language" content="en" />
@@ -93,7 +93,7 @@
 <ul class="current nav sidenav_l1">
  <li class="toctree-l1">
   <a class="reference internal" href="IntroductionToPythonPart1.html">
-   MATH 307   Applications of Linear Algebra
+   Introduction to Python - Part 1
   </a>
  </li>
  <li class="toctree-l1 current active">
@@ -1001,7 +1001,7 @@ B = \begin{bmatrix}
     
     <div class='prev-next-bottom'>
         
-    <a class='left-prev' id="prev-link" href="IntroductionToPythonPart1.html" title="previous page">MATH 307   Applications of Linear Algebra</a>
+    <a class='left-prev' id="prev-link" href="IntroductionToPythonPart1.html" title="previous page">Introduction to Python - Part 1</a>
     <a class='right-next' id="next-link" href="01_linear_systems.html" title="next page">Linear Systems of Equations</a>
 
     </div>

diff --git a/notebooks/06_least_squares_regression.html b/notebooks/06_least_squares_regression.html
@@ -93,7 +93,7 @@
 <ul class="nav sidenav_l1">
  <li class="toctree-l1">
   <a class="reference internal" href="IntroductionToPythonPart1.html">
-   MATH 307   Applications of Linear Algebra
+   Introduction to Python - Part 1
   </a>
  </li>
  <li class="toctree-l1">
@@ -467,11 +467,11 @@ y = c_0 + c_1 t + \epsilon
 </div>
 </div>
 <div class="cell_output docutils container">
-<div class="output text_plain highlight-myst-ansi notranslate"><div class="highlight"><pre><span></span>array([[1.        , 0.72964551],
-       [1.        , 0.8328804 ],
-       [1.        , 0.78476209],
-       [1.        , 0.553164  ],
-       [1.        , 0.95494473]])
+<div class="output text_plain highlight-myst-ansi notranslate"><div class="highlight"><pre><span></span>array([[1.        , 0.96442161],
+       [1.        , 0.09385089],
+       [1.        , 0.46415307],
+       [1.        , 0.06666597],
+       [1.        , 0.77513142]])
 </pre></div>
 </div>
 </div>
@@ -485,7 +485,7 @@ y = c_0 + c_1 t + \epsilon
 </div>
 </div>
 <div class="cell_output docutils container">
-<div class="output stream highlight-myst-ansi notranslate"><div class="highlight"><pre><span></span>[ 7.01845697 -4.04268155]
+<div class="output stream highlight-myst-ansi notranslate"><div class="highlight"><pre><span></span>[ 6.98682125 -3.99163281]
 </pre></div>
 </div>
 </div>

diff --git a/index.html b/index.html
@@ -56,7 +56,7 @@
     <script async="async" src="_static/sphinx-thebe.js"></script>
     <link rel="index" title="Index" href="genindex.html" />
     <link rel="search" title="Search" href="search.html" />
-    <link rel="next" title="MATH 307 Applications of Linear Algebra" href="notebooks/IntroductionToPythonPart1.html" />
+    <link rel="next" title="Introduction to Python - Part 1" href="notebooks/IntroductionToPythonPart1.html" />
 
     <meta name="viewport" content="width=device-width, initial-scale=1" />
     <meta name="docsearch:language" content="en" />
@@ -92,7 +92,7 @@
 <ul class="nav sidenav_l1">
  <li class="toctree-l1">
   <a class="reference internal" href="notebooks/IntroductionToPythonPart1.html">
-   MATH 307   Applications of Linear Algebra
+   Introduction to Python - Part 1
   </a>
  </li>
  <li class="toctree-l1">
@@ -350,7 +350,7 @@
     
     <div class='prev-next-bottom'>
         
-    <a class='right-next' id="next-link" href="notebooks/IntroductionToPythonPart1.html" title="next page">MATH 307   Applications of Linear Algebra</a>
+    <a class='right-next' id="next-link" href="notebooks/IntroductionToPythonPart1.html" title="next page">Introduction to Python - Part 1</a>
 
     </div>
     <footer class="footer mt-5 mt-md-0">

diff --git a/notebooks/10_computing_eigenvalues.html b/notebooks/10_computing_eigenvalues.html
@@ -93,7 +93,7 @@
 <ul class="nav sidenav_l1">
  <li class="toctree-l1">
   <a class="reference internal" href="IntroductionToPythonPart1.html">
-   MATH 307   Applications of Linear Algebra
+   Introduction to Python - Part 1
   </a>
  </li>
  <li class="toctree-l1">
@@ -557,8 +557,8 @@ A \tilde{\mathbf{x}}_{k+1} = \mathbf{x}_k \\
 </div>
 </div>
 <div class="cell_output docutils container">
-<div class="output stream highlight-myst-ansi notranslate"><div class="highlight"><pre><span></span>Power method:  382.98183652853226
-SciPy:  382.98235564194533
+<div class="output stream highlight-myst-ansi notranslate"><div class="highlight"><pre><span></span>Power method:  387.51389521645785
+SciPy:  387.51540358502723
 </pre></div>
 </div>
 </div>

diff --git a/notebooks/07_pca.html b/notebooks/07_pca.html
@@ -93,7 +93,7 @@
 <ul class="nav sidenav_l1">
  <li class="toctree-l1">
   <a class="reference internal" href="IntroductionToPythonPart1.html">
-   MATH 307   Applications of Linear Algebra
+   Introduction to Python - Part 1
   </a>
  </li>
  <li class="toctree-l1">
@@ -377,8 +377,8 @@
 </div>
 </div>
 <div class="cell_output docutils container">
-<div class="output text_plain highlight-myst-ansi notranslate"><div class="highlight"><pre><span></span>array([[-0.86376809, -0.50388956],
-       [-0.50388956,  0.86376809]])
+<div class="output text_plain highlight-myst-ansi notranslate"><div class="highlight"><pre><span></span>array([[ 0.85707462,  0.51519229],
+       [ 0.51519229, -0.85707462]])
 </pre></div>
 </div>
 </div>

diff --git a/genindex.html b/genindex.html
@@ -91,7 +91,7 @@
 <ul class="nav sidenav_l1">
  <li class="toctree-l1">
   <a class="reference internal" href="notebooks/IntroductionToPythonPart1.html">
-   MATH 307   Applications of Linear Algebra
+   Introduction to Python - Part 1
   </a>
  </li>
  <li class="toctree-l1">

diff --git a/search.html b/search.html
@@ -97,7 +97,7 @@
 <ul class="nav sidenav_l1">
  <li class="toctree-l1">
   <a class="reference internal" href="notebooks/IntroductionToPythonPart1.html">
-   MATH 307   Applications of Linear Algebra
+   Introduction to Python - Part 1
   </a>
  </li>
  <li class="toctree-l1">

diff --git a/notebooks/01_linear_systems.html b/notebooks/01_linear_systems.html
@@ -93,7 +93,7 @@
 <ul class="nav sidenav_l1">
  <li class="toctree-l1">
   <a class="reference internal" href="IntroductionToPythonPart1.html">
-   MATH 307   Applications of Linear Algebra
+   Introduction to Python - Part 1
   </a>
  </li>
  <li class="toctree-l1">

diff --git a/notebooks/02_LU_decomposition.html b/notebooks/02_LU_decomposition.html
@@ -93,7 +93,7 @@
 <ul class="nav sidenav_l1">
  <li class="toctree-l1">
   <a class="reference internal" href="IntroductionToPythonPart1.html">
-   MATH 307   Applications of Linear Algebra
+   Introduction to Python - Part 1
   </a>
  </li>
  <li class="toctree-l1">
